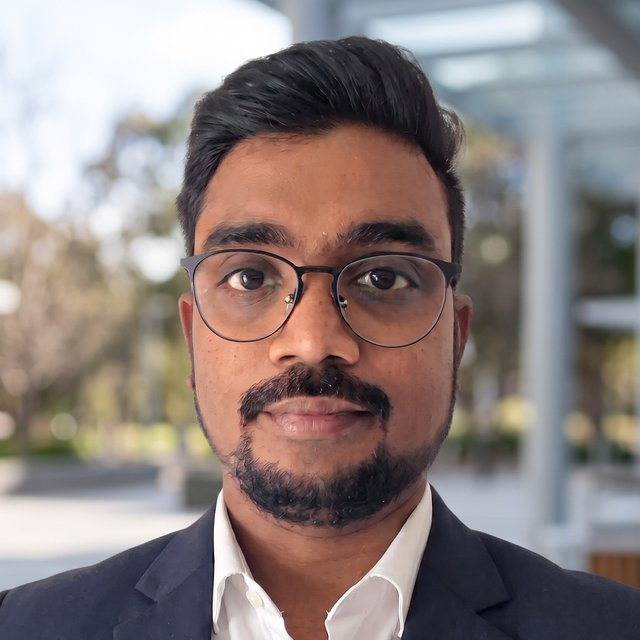
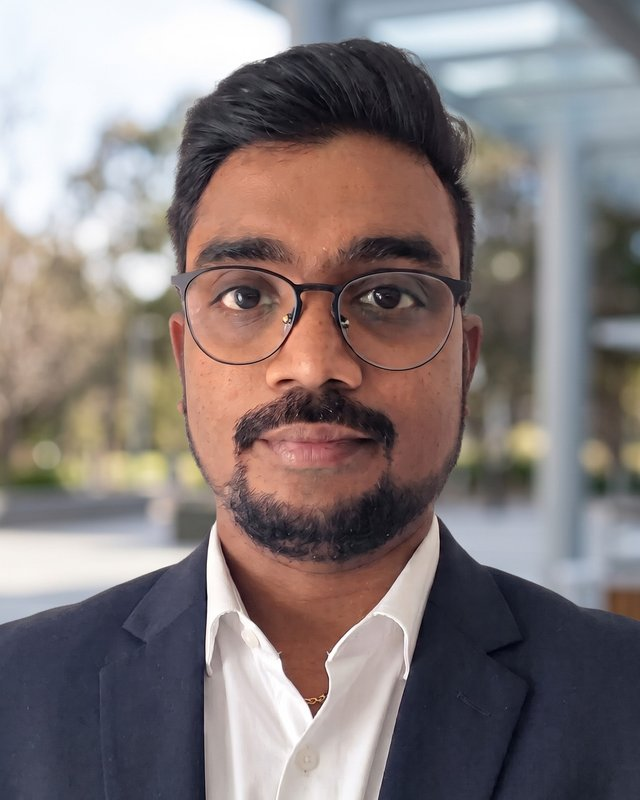
Switch portrait to rounded rectangle (4:5)
Claude-Session: https://claude.ai/code/session_01Qd7TXnrwMcDhH2rsjgzbVk

diff --git a/index.html b/index.html
@@ -51,8 +51,8 @@ h1{font-family:Fraunces,Georgia,serif;font-weight:600;font-size:clamp(36px,6vw,6
 @media (prefers-color-scheme: dark){ .btn.primary{color:#062a26} }
 .btn:hover{text-decoration:none;transform:translateY(-1px)}
 .hero-grid{display:grid;grid-template-columns:1fr auto;gap:56px;align-items:center}
-.portrait{width:280px;height:280px;border-radius:50%;object-fit:cover;border:6px solid var(--surface);box-shadow:0 0 0 1px var(--line),0 18px 40px -18px rgba(0,0,0,.35)}
-@media (max-width:860px){ .hero-grid{grid-template-columns:1fr;gap:28px} .portrait{width:160px;height:160px;order:-1} }
+.portrait{width:300px;height:375px;border-radius:20px;object-fit:cover;box-shadow:0 0 0 1px var(--line),0 24px 48px -20px rgba(0,0,0,.4)}
+@media (max-width:860px){ .hero-grid{grid-template-columns:1fr;gap:28px} .portrait{width:200px;height:250px;border-radius:16px;order:-1} }
 
 /* stats */
 .stats{display:grid;grid-template-columns:repeat(3,1fr);gap:1px;background:var(--line);border:1px solid var(--line);border-radius:14px;overflow:hidden;margin-top:64px}
@@ -127,7 +127,7 @@ footer .wrap{display:flex;justify-content:space-between;flex-wrap:wrap;gap:8px}
       <a class="btn" href="#experience">View experience</a>
     </div>
     </div>
-    <img class="portrait" src="profile.jpg" alt="Portrait of Thiyagarajan Shankaranarayanan" width="280" height="280">
+    <img class="portrait" src="profile.jpg" alt="Portrait of Thiyagarajan Shankaranarayanan" width="300" height="375">
     </div>
 
     <div class="stats">
